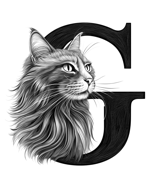
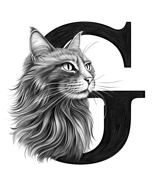
Adjustments to dropcats (G light)

diff --git a/js/head-GENERATED.js b/js/head-GENERATED.js
@@ -3690,26 +3690,26 @@ GW.assetVersions = {
 	"/static/font/drop-cap/dropcat/light/C-4-small-2x.png": "1698101189",
 	"/static/font/drop-cap/dropcat/light/C-5-small-1x.png": "1697741351",
 	"/static/font/drop-cap/dropcat/light/C-5-small-2x.png": "1697741351",
-	"/static/font/drop-cap/dropcat/light/G-1-small-1x.png": "1698132107",
-	"/static/font/drop-cap/dropcat/light/G-1-small-2x.png": "1698132108",
-	"/static/font/drop-cap/dropcat/light/G-10-small-1x.png": "1698132111",
-	"/static/font/drop-cap/dropcat/light/G-10-small-2x.png": "1698132111",
-	"/static/font/drop-cap/dropcat/light/G-2-small-1x.png": "1698132108",
-	"/static/font/drop-cap/dropcat/light/G-2-small-2x.png": "1698132107",
-	"/static/font/drop-cap/dropcat/light/G-3-small-1x.png": "1698132108",
-	"/static/font/drop-cap/dropcat/light/G-3-small-2x.png": "1698132109",
-	"/static/font/drop-cap/dropcat/light/G-4-small-1x.png": "1698132109",
-	"/static/font/drop-cap/dropcat/light/G-4-small-2x.png": "1698132109",
-	"/static/font/drop-cap/dropcat/light/G-5-small-1x.png": "1698132110",
-	"/static/font/drop-cap/dropcat/light/G-5-small-2x.png": "1698132110",
-	"/static/font/drop-cap/dropcat/light/G-6-small-1x.png": "1698132111",
-	"/static/font/drop-cap/dropcat/light/G-6-small-2x.png": "1698132111",
-	"/static/font/drop-cap/dropcat/light/G-7-small-1x.png": "1698132111",
-	"/static/font/drop-cap/dropcat/light/G-7-small-2x.png": "1698132111",
-	"/static/font/drop-cap/dropcat/light/G-8-small-1x.png": "1698132111",
-	"/static/font/drop-cap/dropcat/light/G-8-small-2x.png": "1698132111",
-	"/static/font/drop-cap/dropcat/light/G-9-small-1x.png": "1698132111",
-	"/static/font/drop-cap/dropcat/light/G-9-small-2x.png": "1698132111",
+	"/static/font/drop-cap/dropcat/light/G-1-small-1x.png": "1698285109",
+	"/static/font/drop-cap/dropcat/light/G-1-small-2x.png": "1698285109",
+	"/static/font/drop-cap/dropcat/light/G-10-small-1x.png": "1698285108",
+	"/static/font/drop-cap/dropcat/light/G-10-small-2x.png": "1698285109",
+	"/static/font/drop-cap/dropcat/light/G-2-small-1x.png": "1698285109",
+	"/static/font/drop-cap/dropcat/light/G-2-small-2x.png": "1698285109",
+	"/static/font/drop-cap/dropcat/light/G-3-small-1x.png": "1698285109",
+	"/static/font/drop-cap/dropcat/light/G-3-small-2x.png": "1698285109",
+	"/static/font/drop-cap/dropcat/light/G-4-small-1x.png": "1698285109",
+	"/static/font/drop-cap/dropcat/light/G-4-small-2x.png": "1698285109",
+	"/static/font/drop-cap/dropcat/light/G-5-small-1x.png": "1698285109",
+	"/static/font/drop-cap/dropcat/light/G-5-small-2x.png": "1698285109",
+	"/static/font/drop-cap/dropcat/light/G-6-small-1x.png": "1698285109",
+	"/static/font/drop-cap/dropcat/light/G-6-small-2x.png": "1698285109",
+	"/static/font/drop-cap/dropcat/light/G-7-small-1x.png": "1698285109",
+	"/static/font/drop-cap/dropcat/light/G-7-small-2x.png": "1698285109",
+	"/static/font/drop-cap/dropcat/light/G-8-small-1x.png": "1698285108",
+	"/static/font/drop-cap/dropcat/light/G-8-small-2x.png": "1698285108",
+	"/static/font/drop-cap/dropcat/light/G-9-small-1x.png": "1698285108",
+	"/static/font/drop-cap/dropcat/light/G-9-small-2x.png": "1698285108",
 	"/static/font/drop-cap/dropcat/light/I-1-small-1x.png": "1698152552",
 	"/static/font/drop-cap/dropcat/light/I-1-small-2x.png": "1698152552",
 	"/static/font/drop-cap/dropcat/light/Q-1-small-1x.png": "1698157852",

diff --git a/js/asset-versions-GENERATED.js b/js/asset-versions-GENERATED.js
@@ -124,26 +124,26 @@ GW.assetVersions = {
 	"/static/font/drop-cap/dropcat/light/C-4-small-2x.png": "1698101189",
 	"/static/font/drop-cap/dropcat/light/C-5-small-1x.png": "1697741351",
 	"/static/font/drop-cap/dropcat/light/C-5-small-2x.png": "1697741351",
-	"/static/font/drop-cap/dropcat/light/G-1-small-1x.png": "1698132107",
-	"/static/font/drop-cap/dropcat/light/G-1-small-2x.png": "1698132108",
-	"/static/font/drop-cap/dropcat/light/G-10-small-1x.png": "1698132111",
-	"/static/font/drop-cap/dropcat/light/G-10-small-2x.png": "1698132111",
-	"/static/font/drop-cap/dropcat/light/G-2-small-1x.png": "1698132108",
-	"/static/font/drop-cap/dropcat/light/G-2-small-2x.png": "1698132107",
-	"/static/font/drop-cap/dropcat/light/G-3-small-1x.png": "1698132108",
-	"/static/font/drop-cap/dropcat/light/G-3-small-2x.png": "1698132109",
-	"/static/font/drop-cap/dropcat/light/G-4-small-1x.png": "1698132109",
-	"/static/font/drop-cap/dropcat/light/G-4-small-2x.png": "1698132109",
-	"/static/font/drop-cap/dropcat/light/G-5-small-1x.png": "1698132110",
-	"/static/font/drop-cap/dropcat/light/G-5-small-2x.png": "1698132110",
-	"/static/font/drop-cap/dropcat/light/G-6-small-1x.png": "1698132111",
-	"/static/font/drop-cap/dropcat/light/G-6-small-2x.png": "1698132111",
-	"/static/font/drop-cap/dropcat/light/G-7-small-1x.png": "1698132111",
-	"/static/font/drop-cap/dropcat/light/G-7-small-2x.png": "1698132111",
-	"/static/font/drop-cap/dropcat/light/G-8-small-1x.png": "1698132111",
-	"/static/font/drop-cap/dropcat/light/G-8-small-2x.png": "1698132111",
-	"/static/font/drop-cap/dropcat/light/G-9-small-1x.png": "1698132111",
-	"/static/font/drop-cap/dropcat/light/G-9-small-2x.png": "1698132111",
+	"/static/font/drop-cap/dropcat/light/G-1-small-1x.png": "1698285109",
+	"/static/font/drop-cap/dropcat/light/G-1-small-2x.png": "1698285109",
+	"/static/font/drop-cap/dropcat/light/G-10-small-1x.png": "1698285108",
+	"/static/font/drop-cap/dropcat/light/G-10-small-2x.png": "1698285109",
+	"/static/font/drop-cap/dropcat/light/G-2-small-1x.png": "1698285109",
+	"/static/font/drop-cap/dropcat/light/G-2-small-2x.png": "1698285109",
+	"/static/font/drop-cap/dropcat/light/G-3-small-1x.png": "1698285109",
+	"/static/font/drop-cap/dropcat/light/G-3-small-2x.png": "1698285109",
+	"/static/font/drop-cap/dropcat/light/G-4-small-1x.png": "1698285109",
+	"/static/font/drop-cap/dropcat/light/G-4-small-2x.png": "1698285109",
+	"/static/font/drop-cap/dropcat/light/G-5-small-1x.png": "1698285109",
+	"/static/font/drop-cap/dropcat/light/G-5-small-2x.png": "1698285109",
+	"/static/font/drop-cap/dropcat/light/G-6-small-1x.png": "1698285109",
+	"/static/font/drop-cap/dropcat/light/G-6-small-2x.png": "1698285109",
+	"/static/font/drop-cap/dropcat/light/G-7-small-1x.png": "1698285109",
+	"/static/font/drop-cap/dropcat/light/G-7-small-2x.png": "1698285109",
+	"/static/font/drop-cap/dropcat/light/G-8-small-1x.png": "1698285108",
+	"/static/font/drop-cap/dropcat/light/G-8-small-2x.png": "1698285108",
+	"/static/font/drop-cap/dropcat/light/G-9-small-1x.png": "1698285108",
+	"/static/font/drop-cap/dropcat/light/G-9-small-2x.png": "1698285108",
 	"/static/font/drop-cap/dropcat/light/I-1-small-1x.png": "1698152552",
 	"/static/font/drop-cap/dropcat/light/I-1-small-2x.png": "1698152552",
 	"/static/font/drop-cap/dropcat/light/Q-1-small-1x.png": "1698157852",

diff --git a/include/inlined-head.html b/include/inlined-head.html
@@ -912,5 +912,5 @@ a[data-link-icon-type*='svg'] .link-icon-hook::after {
 }
 </style>
 <link rel="stylesheet" href="/static/css/head.css?v=1698263740">
-<script src="/static/js/head.js?v=1698270177"></script>
+<script src="/static/js/head.js?v=1698285223"></script>
 <link rel="preload" href="/static/img/icon/icons.svg?v=1698021605" as="image">
